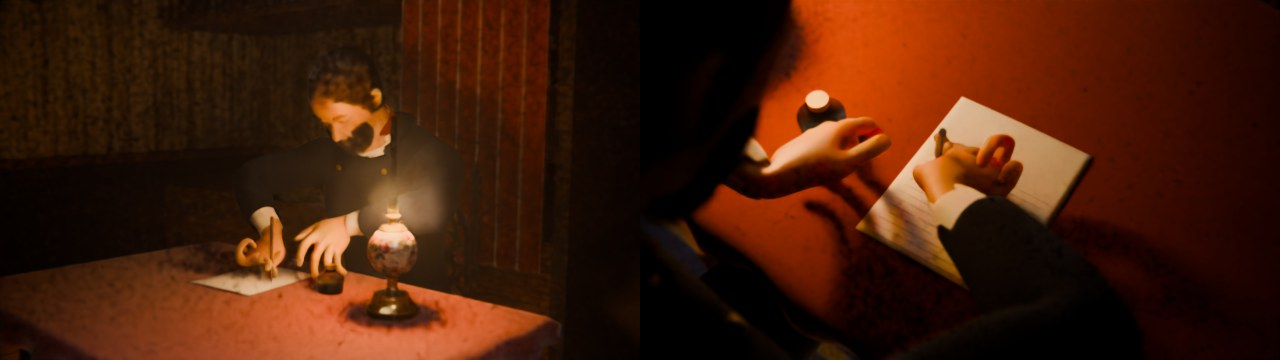
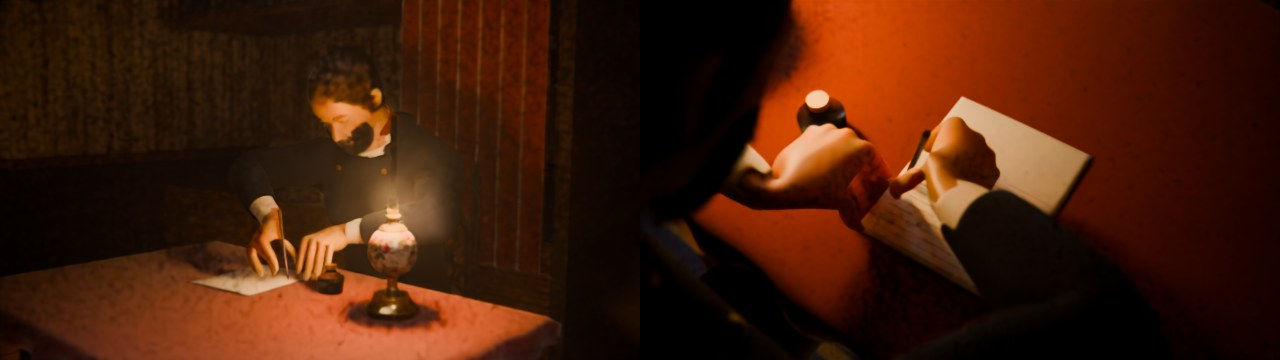
P2 S02/S03 hands: hand orientation from the measured palm axis, fingers curl about their own knuckle axes (natural pen grip; left hand flat, palm down), settle with a continuous wrist finish; review frames
Claude-Session: https://claude.ai/code/session_01XfwPSnh9ZeTrqJ4gjc84NB

Changed region(s): [[0.5312, 0.3056, 0.8438, 0.8556], [0.125, 0.55, 0.3438, 0.7944], [0.8438, 0.6111, 0.9375, 0.9472]]

diff --git a/mary_celeste_p2/p2lib/acts.py b/mary_celeste_p2/p2lib/acts.py
@@ -147,17 +147,47 @@ def hand_low(h, side, Mw):
     return z
 
 
-def settle_hand(h, side, pose_fn, Mw, surface_z, gap=0.002, tries=5):
+def settle_hand(h, side, pose_fn, Mw, surface_z, gap=0.002, tries=14):
     """pose_fn(dz) poses the hand with its target raised by dz (rig frame); find dz so the hand's lowest skin point
     rests `gap` above surface_z (world): touching, not floating, not through."""
-    dz = 0.0
-    for _ in range(tries):
+    import os
+    dz = 0.0; best = None
+    for i in range(tries):
         pose_fn(dz)
         err = hand_low(h, side, Mw) - (surface_z + gap)
-        if abs(err) < 0.0015:
+        if os.environ.get("SETTLEDBG"):
+            print("SETTLE", side, i, round(dz, 4), round(err, 4), flush=True)
+        if best is None or abs(err) < abs(best[1]):
+            best = (dz, err)
+        if abs(err) < 0.0012:
             break
-        dz -= err
-    return dz
+        dz -= 0.55 * err                 # damped: raising the target also moves the elbow and turns the hand
+    if abs(best[1]) >= 0.0012:
+        pose_fn(best[0])
+        # the arm solution jumps near contact: finish with the wrist alone (continuous), tilting the hand
+        # about its side axis until the lowest skin point meets the surface
+        import bpy
+        pb = h.arm.pose.bones[f"wrist.{side}"]; base = pb.matrix_basis.copy()
+        d = (h.bone_tail(f"wrist.{side}") - h.bone_head(f"wrist.{side}")).normalized()
+        ax = d.cross(Vector((0, 0, 1))).normalized()
+        cand = None
+        for step in range(0, 41):
+            for sgn in (1, -1):
+                deg = sgn * step * 0.5
+                pb.matrix_basis = base; bpy.context.view_layer.update()
+                if deg:
+                    h.rot(f"wrist.{side}", ax, deg)
+                e = hand_low(h, side, Mw) - (surface_z + gap)
+                if cand is None or abs(e) < abs(cand[1]):
+                    cand = (deg, e)
+            if abs(cand[1]) < 0.0012:
+                break
+        pb.matrix_basis = base; bpy.context.view_layer.update()
+        if cand[0]:
+            h.rot(f"wrist.{side}", ax, cand[0])
+        if os.environ.get("SETTLEDBG"):
+            print("SETTLE wrist", side, cand, flush=True)
+    return best[0]
 
 
 def _hand_pts(h, side, Mw):
@@ -213,3 +243,84 @@ def flat_hand(h, side, thumb_dir, fwd=(0, -1), pitches=(-0.45, -0.3, -0.18, -0.0
     if os.environ.get("FLATDBG"):
         print("FLATBEST", round(best[0], 4), best[1], best[2], flush=True)
     return best[:3]
+
+
+# palm normal of the MakeHuman hand in the wrist bone's own frame (measured: plane of the metacarpals, toward the curl)
+PALM_LOCAL = {"L": Vector((-0.886, 0.263, -0.382)), "R": Vector((0.886, 0.263, -0.382))}
+
+
+def orient_hand(h, side, fwd, palm):
+    """Turn the hand (wrist bone, rig frame) so it points along fwd (wrist -> knuckles) with the palm facing palm."""
+    import bpy
+    bpy.context.view_layer.update()
+    pb = h.arm.pose.bones[f"wrist.{side}"]
+    M0 = pb.matrix.copy(); R0 = M0.to_3x3().normalized(); head = M0.to_translation()
+    kn = [h.bone_head(f"finger{k}-1.{side}") for k in (2, 3, 4, 5) if f"finger{k}-1.{side}" in h.arm.pose.bones]
+    f_l = (R0.inverted() @ ((sum(kn, Vector()) / len(kn)) - head)).normalized()
+    n_l = PALM_LOCAL[side].normalized()
+    a2 = (n_l - f_l * n_l.dot(f_l)).normalized(); a3 = f_l.cross(a2)
+    b1 = Vector(fwd).normalized(); b2 = (Vector(palm) - b1 * Vector(palm).dot(b1)).normalized(); b3 = b1.cross(b2)
+    A = Matrix((f_l, a2, a3)).transposed(); B = Matrix((b1, b2, b3)).transposed()
+    R = B @ A.transposed()
+    pb.matrix = Matrix.Translation(head) @ R.to_4x4()
+    bpy.context.view_layer.update()
+
+
+def relaxed_flat(h, side, curl=6):
+    """Fingers almost straight, a little apart, thumb alongside: a hand at rest on a surface."""
+    sg = 1 if side == "L" else -1
+    for f in (2, 3, 4, 5):
+        for k, d in ((1, curl), (2, curl + 4), (3, curl + 2)):
+            b = f"finger{f}-{k}.{side}"
+            if b in h.arm.pose.bones:
+                h.rot(b, h.bone_tail(b) - h.bone_head(b), 0)      # no-op keeps API symmetrical
+    import poses as P
+    P.rest_hand(h, side, curl=curl)
+
+
+def pen_grip2(h, side):
+    """A writer's grip: thumb, index and middle finger meet on the pen; ring and little finger curled under."""
+    import poses as P
+    P.rest_hand(h, side, curl=0)
+    sg = 1 if side == "L" else -1
+    for k, d in ((1, 28), (2, 30), (3, 18)):
+        h.rot(f"finger2-{k}.{side}", (1, 0, 0), d)
+    for k, d in ((1, 38), (2, 40), (3, 25)):
+        h.rot(f"finger3-{k}.{side}", (1, 0, 0), d)
+    for f in (4, 5):
+        for k, d in ((1, 62), (2, 75), (3, 55)):
+            h.rot(f"finger{f}-{k}.{side}", (1, 0, 0), d)
+    h.rot(f"finger1-2.{side}", (0, 0, sg), 14); h.rot(f"finger1-3.{side}", (1, 0, 0), 12)
+
+
+def palm_normal(h, side):
+    import bpy
+    bpy.context.view_layer.update()
+    R = h.arm.pose.bones[f"wrist.{side}"].matrix.to_3x3().normalized()
+    return (R @ PALM_LOCAL[side]).normalized()
+
+
+def curl(h, bone, deg, palm):
+    """Bend a finger bone toward the palm by deg (about its own knuckle axis)."""
+    d = (h.bone_tail(bone) - h.bone_head(bone)).normalized()
+    ax = d.cross(palm)
+    if ax.length < 1e-4:
+        return
+    h.rot(bone, ax.normalized(), deg)
+
+
+def hand_shape(h, side, fingers, thumb=(0, 0, 0)):
+    """fingers: {2: (d1, d2, d3), 3: ..., 4: ..., 5: ...} curl per joint (deg) toward the palm, from the hand's
+    straight rest; thumb: curl of finger1-1..3."""
+    import poses as P
+    P.rest_hand(h, side, curl=0)
+    pn = palm_normal(h, side)
+    for f, ds in fingers.items():
+        for k, d in enumerate(ds, 1):
+            b = f"finger{f}-{k}.{side}"
+            if b in h.arm.pose.bones and d:
+                curl(h, b, d, pn)
+    for k, d in enumerate(thumb, 1):
+        b = f"finger1-{k}.{side}"
+        if b in h.arm.pose.bones and d:
+            curl(h, b, d, pn)

diff --git a/mary_celeste_p2/scenes/sc_cabin.py b/mary_celeste_p2/scenes/sc_cabin.py
@@ -36,15 +36,17 @@ def briggs_writing(pause=False, expr=None):
     top = SET["letter"].z + 0.0015                       # the sheet's surface (it lies on the cloth)
     # the pen hand: the side of the hand rests on the page (not through it, not above it)
     def pen_hand(dz):
-        P.hand_reach(b.h, "R", Mi @ paper + Vector((-0.02, 0.06, 0.075 + dz)), elbow=(-0.9, 0.4, 0.45))
-        b.h.aim("wrist.R", Vector((0.35, -0.8, -0.45))); A.pen_grip(b.h, "R")
+        P.hand_reach(b.h, "R", Mi @ paper + Vector((-0.03, 0.07, 0.06 + dz)), elbow=(-0.9, 0.4, 0.45))
+        A.orient_hand(b.h, "R", (0.3, -0.85, -0.3), (0.5, 0.0, -0.87))   # pinky edge on the page, palm down-in
+        # writer's grip: thumb, index, middle meet on the pen; ring and little finger curled under, resting on the page
+        A.hand_shape(b.h, "R", {2: (30, 32, 18), 3: (40, 42, 25), 4: (62, 75, 50), 5: (65, 78, 50)}, thumb=(10, 20, 15))
     A.settle_hand(b.h, "R", pen_hand, Mw, top, gap=0.001)
     # left hand flat on the near-left corner of the letter, steadying it, on his own side (+X): no crossing, no floating
     lh = SET["letter"] + Vector((0.13, 0.17, 0.0))
     def left_hand(dz):
-        P.hand_reach(b.h, "L", Mi @ lh + Vector((0, 0.03, 0.05 + dz)), elbow=(0.9, 0.5, 0.45))
-        b.h.aim("wrist.L", Vector((0.1, -0.97, -0.2)))      # palm down, fingers forward, fingertips on the table
-        P.rest_hand(b.h, "L", curl=8)
+        P.hand_reach(b.h, "L", Mi @ lh + Vector((0, 0.03, 0.035 + dz)), elbow=(0.9, 0.5, 0.45))
+        A.orient_hand(b.h, "L", (0.05, -1.0, -0.08), (0.0, 0.0, -1.0))  # flat, palm down, fingers forward
+        A.hand_shape(b.h, "L", {2: (6, 8, 5), 3: (7, 9, 5), 4: (8, 10, 6), 5: (9, 11, 6)}, thumb=(0, 6, 4))
     A.settle_hand(b.h, "L", left_hand, Mw, SET["table"].z + 0.003, gap=0.0015)   # on the cloth, beside the sheet
     if pause:
         b.lids(0.3)
